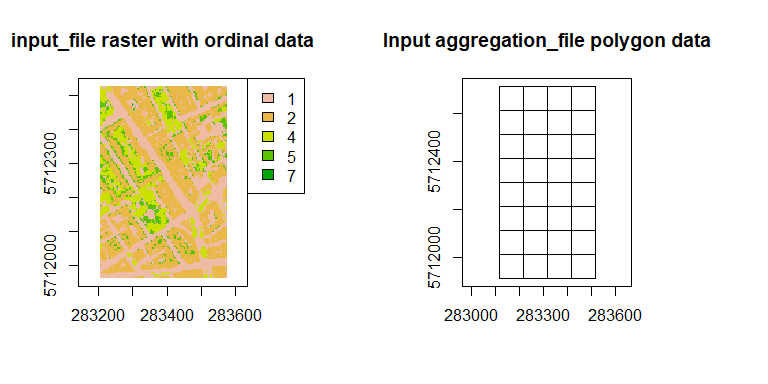
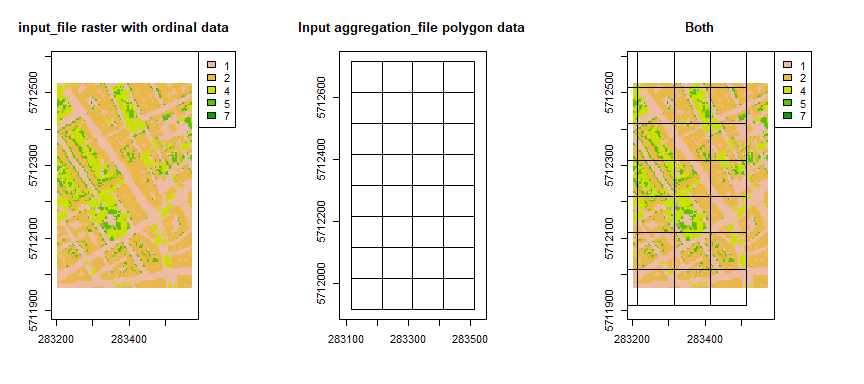
fig

diff --git a/README.md b/README.md
@@ -44,9 +44,13 @@ wip
 
     ## terra version 0.8.6 (beta-release)
 
-    par(mfrow = c(1, 2))
+    par(mfrow = c(1, 3))
     plot(rast("data/sample/sample_input_raster_ordinal.tif"), main = "input_file raster with ordinal data")
+
     plot(vect("data/sample/sample_shapefile/sample_shapefile.shp"), main = "Input aggregation_file polygon data")
+
+    plot(rast("data/sample/sample_input_raster_ordinal.tif"), main = "Both")
+    plot(vect("data/sample/sample_shapefile/sample_shapefile.shp"), add = TRUE)
 
 ![](README_files/figure-markdown_strict/unnamed-chunk-2-1.png)
 
@@ -56,37 +60,9 @@ wip
                  output_directory = "data/sample/output",
                  poly_chunk_size = 500)
 
-    ## Loading required package: tools
-
-    ## Loading required package: dplyr
-
     ## Warning: package 'dplyr' was built under R version 4.0.3
 
-    ## 
-    ## Attaching package: 'dplyr'
-
-    ## The following object is masked from 'package:terra':
-    ## 
-    ##     select
-
-    ## The following objects are masked from 'package:stats':
-    ## 
-    ##     filter, lag
-
-    ## The following objects are masked from 'package:base':
-    ## 
-    ##     intersect, setdiff, setequal, union
-
-    ## Loading required package: tidyr
-
     ## Warning: package 'tidyr' was built under R version 4.0.3
-
-    ## 
-    ## Attaching package: 'tidyr'
-
-    ## The following objects are masked from 'package:terra':
-    ## 
-    ##     expand, extract, fill, pack
 
     ## [1] "1 / 1"
 
